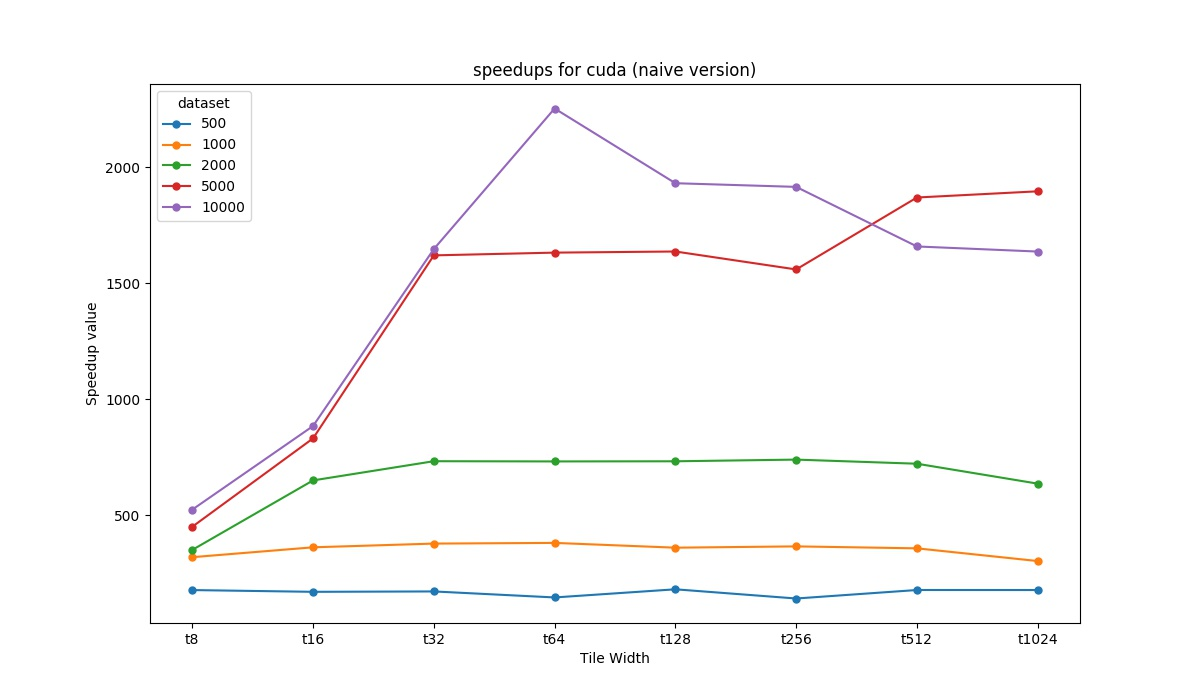
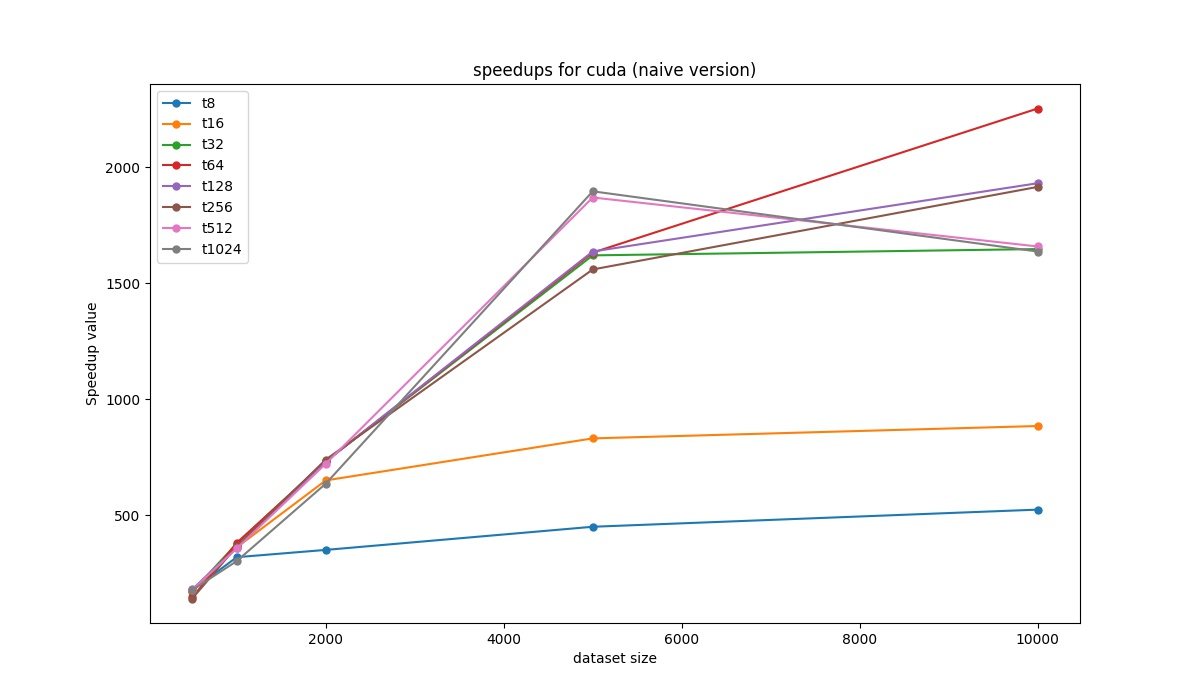
Updated graphs creation

diff --git a/create_graphs.py b/create_graphs.py
@@ -27,7 +27,7 @@ def create_result_plot(fn:str, transpose=True, debug=False):
     ax.set_ylabel("Time (seconds)" if _type == "timings" else "Speedup value")
     if show_plots: plt.show()
     fig = ax.get_figure()
-    fig.savefig(os.path.join(out_folder, fn[:-4]+"{}.jpg".format("_by_dataset" if transpose else "_by_t")))
+    fig.savefig(os.path.join(out_folder, fn[:-4]+"{}.jpg".format("_by_t" if transpose else "_by_dataset")))
 
 def create_plots():
     for file in os.listdir(src_folder):
